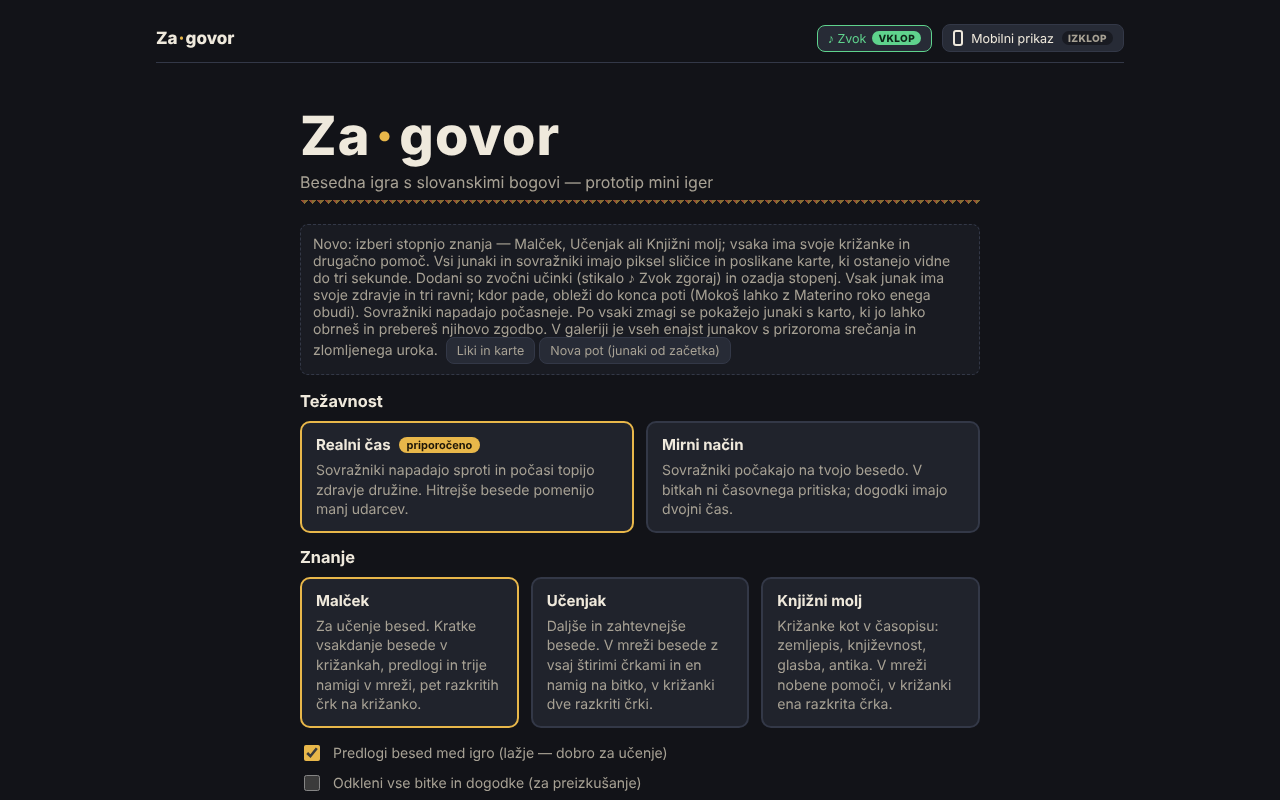
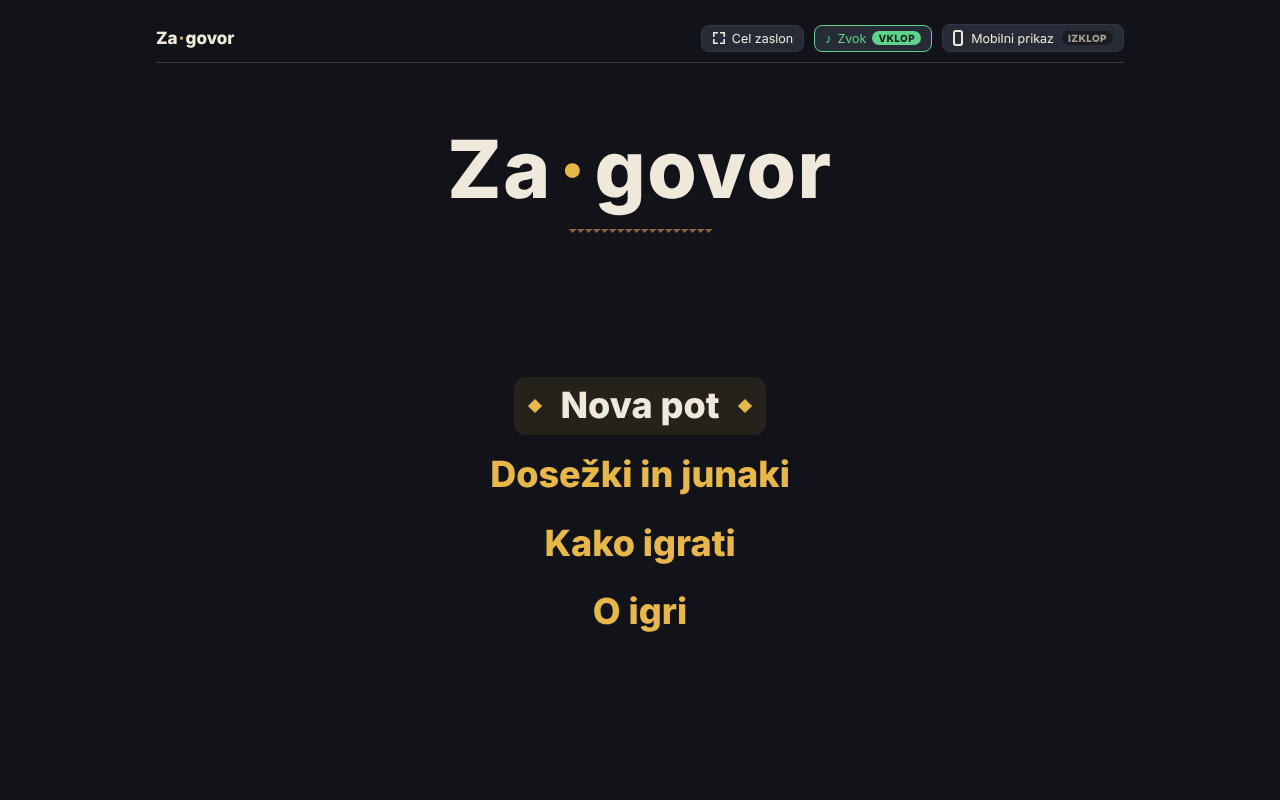
docs: the start menu, Nova pot and O igri
Claude-Session: https://claude.ai/code/session_01DWpJZzj8dHatLjC8dhRuja

diff --git a/README.md b/README.md
@@ -6,8 +6,8 @@ your heroes attack, solve crosswords to speak a *zagovor* (a folk charm), and fi
 creatures of Slovene folklore on the way to the dragon. The game is
 inspired by [Words for Evil](https://store.steampowered.com/app/335790/Words_for_Evil/)
 (Chromosphere Games / Dylan Loney, 2014) and exists to show how rich and playful the
-Slovene language is. The game says so itself: on the start screen, after the final battle,
-and on its *Zasluge* (credits) screen.
+Slovene language is. The game says so itself: on its *O igri* page (*Navdih* and *Zasluge*)
+and after the final battle.
 
 > **Slovensko:** *Za govor* je besedna igra s prvinami igre vlog v slovenščini. Junaki iz
 > slovanske mitologije se bojujejo z besedami: iz mreže črk sestavljaš besede, rešuješ
@@ -55,6 +55,14 @@ The interface is in Slovene. On a phone or tablet the *Mobilni prikaz* layout sw
 by itself; the switch in the top bar changes it at any time.
 
 ## How it plays
+**The start screen is a short menu:** *Nadaljuj pot* (while a journey is under way, with the
+region it stopped in), *Nova pot*, *Dosežki in junaki*, *Kako igrati* and *O igri*. Every
+page under it has **← Nazaj na glavni meni** at the top; `Esc` and the Android back button
+do the same. *Nova pot* is where the difficulty is chosen (see
+[Two difficulty choices](#two-difficulty-choices)), then the first hero. *Kako igrati* lists
+the controls of the current device (keyboard and mouse, or touch) and shows every puzzle in a
+carousel; *O igri* holds the description, the credits and *Prijavi manjkajočo besedo*.
+
 The game is **one side-scrolling journey** through places in Slovenia. You choose one hero
 and walk; the road stops you at enemies, chests, rock slides, wells, pedlars and other
 heroes. There is no level list — the road leads from region to region, and the dragon at
@@ -94,8 +102,8 @@ Ljubljana castle is the last battle.
   it with a solved example and the clock waits until you press *Začni*. `Esc` pauses any
   timed screen; while paused the letters are blurred. *Cel zaslon* in the top bar goes
   fullscreen, and on desktop the game scales so the scene and the puzzle fit the window.
-- **Test mode** (a switch on the start screen) starts with 200 gold and lets you skip stops
-  and regions.
+- **Test mode** (a developer switch on *Nova pot*) starts with 200 gold, offers every hero
+  and lets you skip stops and regions.
 
 ### Battles: the letter mesh
 - A 5×6 grid of Slovene letters (Scrabble letter distribution, balanced vowels). Chain
@@ -140,9 +148,10 @@ journey).
 | **Veles** (god) | Hardest hits, poison | Kačji pik → Medvedja šapa → Korenine sveta |
 
 Each hero has their own health bar and levels up to level 3 (more health, stronger
-attacks, extra power for long words). The gallery (*Liki, predmeti in ozadja* on the start
-screen) shows every hero with sprites, cards and backstory, the road objects, all items and
-the ten backgrounds.
+attacks, extra power for long words). *Dosežki in junaki* lists every hero: the ones you
+have met open their card and backstory, the others are silhouettes. A developer link there
+opens the full gallery with sprites, cards, road objects, all items and the ten backgrounds.
+Achievements have their place on the same page but none exist yet.
 
 ### Enemies
 Enemies attack in real time, telegraphed by a glowing wind-up. Their strongest moves
@@ -202,11 +211,15 @@ everyone).
 - **Bag:** `T` on the road, `3` in a battle. It only shows what you carry; the heroes use it themselves.
 
 ### Two difficulty choices
+Both are chosen on *Nova pot*, before the first hero, and hold for the whole journey: the
+choices only count once the journey starts, so looking at *Nova pot* in the middle of a
+journey changes nothing. The last choices are remembered for the next journey.
+
 **Pace** (*Težavnost*): **real-time** (recommended) has no countdown — enemies attack at
 their own pace and wear the party down; **calm mode** (*mirni način*) only lets enemies act
-after you play words.
+after you play words (they strike every few moves).
 
-**Knowledge** (*Znanje*), chosen below the pace and remembered between visits:
+**Knowledge** (*Znanje*), chosen below the pace, each with its own pixel figure:
 
 | | Malček (baby) | Učenjak (scholar) | Knjižni molj (book worm) |
 | --- | --- | --- | --- |
@@ -253,7 +266,7 @@ so players will meet real Slovene words it does not know. The game helps catch t
   mesh, the chest, the rock slide and darts. The first rejection of a visit says where to
   report it.
 - **Prijavi besedo** in the pause window (`Esc` / *Premor*) and **Prijavi manjkajočo
-  besedo** on the start screen list those words; one tap reports a word, with an optional
+  besedo** on *O igri* list those words; one tap reports a word, with an optional
   note (meaning, dialect). A word can also be typed. Words the game already knows are not sent.
 - **Reports go to a Google Form**, whose answers land in a spreadsheet, with an e-mail per
   answer. They carry only the word, where it was turned down, the note, and the level,
@@ -280,6 +293,7 @@ Confirmed words go into `data/allow.json` (lemma → forms); then rebuild the wo
 ## Controls
 | Action | Keyboard | Mouse / touch |
 | --- | --- | --- |
+| Start menu | `↑` `↓` and `Enter`; `Esc` goes back from any page under it | Tap; *← Nazaj na glavni meni* at the top of every page |
 | Make a word | Type it; the path is found for you. Č, Š, Ž must be typed as themselves (a Slovene keyboard layout), c/s/z never stand in for them | Drag across tiles, or tap them one by one |
 | Send the word | `Enter` | Lift the finger after a drag, or tap the last letter again (*Pošlji* on desktop, and in chest, rock slide and darts) |
 | Clear the word | `Delete` | *Počisti* |
@@ -290,7 +304,7 @@ Confirmed words go into `data/allow.json` (lemma → forms); then rebuild the wo
 | Walk on the road, confirm a stop | `→` or `Enter` (`Esc` = walk past, `T` = bag) | *Naprej* and the buttons of the stop |
 | Crossword: reveal a letter | `?` | *Razkrij črko* |
 | Crossword: next entry, move | `Enter` or `Tab`, arrow keys | Tap a cell or a clue; type on the in-game keyboard, *Naprej* for the next word |
-| Android back button | — | Pauses a puzzle, closes a panel, steps back to the start screen; leaves the app only from there |
+| Android back button | — | Pauses a puzzle, closes a panel, steps back (hero choice → *Nova pot* → menu); leaves the app only from the menu |
 
 ## Build from source
 `dist/index.html` is built from the files in `src/` and `data/` by a small Python script
@@ -334,18 +348,19 @@ The tests open the built page in headless Chrome and play it through a test hook
 ```sh
 npm install
 python3 build.py
-npm test                                  # all nine test files
+npm test                                  # all ten test files
 CHROME_PATH=/path/to/chrome npm test      # if Chrome isn't found automatically
 ```
 
 | File | What it checks |
 | --- | --- |
 | `tests/crossword-generator.test.js` | 4,200 generated crosswords on all three levels: no letter clashes or stray letters, connected grids, everything fits 9×9, only that level's clue banks, short words in enemy crosswords, the gold column spells the keyword |
-| `tests/levels.test.js` | Each knowledge level: chosen and saved on the title screen, hints and proposals, word count and coaching tips, shortest word, crossword bank, letter counts, revealed letters (and half power), mouse clicks reaching the crossword |
+| `tests/levels.test.js` | Each knowledge level: chosen on *Nova pot* and saved when the journey starts, hints and proposals, word count and coaching tips, shortest word, crossword bank, letter counts, revealed letters (and half power), mouse clicks reaching the crossword |
 | `tests/keyword.test.js` | Guessing the keyword early ends the crossword and fires the zagovor; in Povodni mož's whirlpool *urska* with a plain s stays black and *urška* breaks it |
 | `tests/phone.test.js` | On a 390×844 touch screen: the mesh sends without *Pošlji* (second tap, lifted drag, non-words clear), the in-game keyboard types crosswords and the rock slide with the system keyboard closed, wrong entries stay black and correct ones fire, chest partial rewards, darts fit 360 px, *Premor*, and the Android back button |
-| `tests/credits.test.js` | Words for Evil is credited on the start screen, the *Zasluge* screen (with every source and a Steam link) and the ending; the line fits a 360 px phone; Esc and the Android back button leave the credits |
-| `tests/report.test.js` | *Prijavi besedo*: rejected words are remembered (mesh, chest), the pause screen and start screen list them, one tap posts word, place, note and level to the Google Form (intercepted), typing works while paused, known words are not sent, the queue waits without a form and goes out once there is one, lists survive a reload, the panel fits a 360 px phone; *jasa* and base forms are accepted |
+| `tests/menu.test.js` | The start menu: items with and without a journey, `↑` `↓` `Enter` `Esc`, *← Nazaj na glavni meni* on every page; *Nova pot* copy, figures, *Predlogi besed* under Malček only, explanations on by default, test mode as a developer option, choices that only count once the journey starts; *Kako igrati* controls per device and the puzzle carousel (buttons, keys, tabs, swipe); heroes and their cards; no *Nadaljuj pot* after the ending; phone fit and the Android back button |
+| `tests/credits.test.js` | Words for Evil is credited on *O igri* (*Navdih*, then *Zasluge* with every source and a Steam link) and on the ending, whose link opens *O igri* at *Navdih*; the line fits a 360 px phone; Esc and the Android back button leave the credits |
+| `tests/report.test.js` | *Prijavi besedo*: rejected words are remembered (mesh, chest), the pause screen and *O igri* list them, one tap posts word, place, note and level to the Google Form (intercepted), typing works while paused, known words are not sent, the queue waits without a form and goes out once there is one, lists survive a reload, the panel fits a 360 px phone; *jasa* and base forms are accepted |
 | `tests/journey.test.js` | The road: choosing the first hero, walking to a stop, one enemy for one hero, no healing after a battle, a hero joining, the chest's gold and item, the well, the pedlar, using a potion, the bag pausing the battle, the shrine and the one-god rule, swapping with a full party, all 45 hero moves, the dragon and the ending |
 | `tests/lexicon.test.js` | The word list in the browser: over a million forms accepted and a common part suggested, the 217-word coverage set accepted and its non-words (Croatian, English, made up) refused, the reported words (*jasa*, *loj*, *runa*, *seks*) and *ritem*/*ritual*/*riti*, vulgar words accepted but never suggested, mythology names, *deny.json*, non-standard forms, base forms (*ljudje* → *človek*), headwords Sloleks lacks (*zborišča*, *sedemkotnik*), and at 4× slower CPU a mesh walk under 50 ms and a lookup under 20 µs |
 | `tests/desktop.test.js` | A keyboard playthrough: c/s/z are not accepted for č/š/ž, first battle, result and hero screens, chest, finisher, Lintvern's letter lock and forced crossword, ambush, rock slide, and no console errors anywhere |
@@ -364,8 +379,9 @@ za-govor/
 │   ├── journey.js            # the road: regions, stops, party, items, pedlar, bag, darts
 │   ├── playtest.js           # pause, puzzle intros, fullscreen, fit to screen
 │   ├── mobile.js             # phone specifics: in-game keyboard, haptics, Android back button
-│   ├── credits.js            # Zasluge: the Words for Evil credit and every source
+│   ├── credits.js            # Navdih and Zasluge: the Words for Evil credit and every source
 │   ├── report.js             # Prijavi besedo: rejected words, reports to a Google Form
+│   ├── menu.js               # the start menu and its pages: Nova pot, Dosežki in junaki, Kako igrati, O igri
 │   ├── art-extra.js          # generated pixel art (tools/art_extra.py)
 │   └── game.css              # styles, desktop and phone layouts
 ├── android/                  # Capacitor 8 Android project (npm run android:open)
@@ -387,7 +403,7 @@ za-govor/
 │   ├── xref_sources.py       # cross-reference: what each dictionary has that the game does not accept
 │   ├── check_reports.py      # checks the words players reported (CSV from the form's Sheet)
 │   ├── cluebank.py           # the three clue banks; validates and builds data/clues.json
-│   ├── art_extra.py          # draws the new heroes, road objects, item icons and backgrounds (needs Pillow)
+│   ├── art_extra.py          # draws the new heroes, road objects, item icons, backgrounds and knowledge-level figures (needs Pillow)
 │   └── readme-shots.js       # regenerates docs/images/
 ├── tests/                    # headless Chrome tests (puppeteer-core)
 └── docs/

diff --git a/docs/concept-summary.md b/docs/concept-summary.md
@@ -5,7 +5,7 @@ Playable UX prototype (browser; all party heroes and enemies have sprites, cards
 
 ## The journey (11 Nov 2026, afternoon — details in the progression design doc)
 - **The game is one 2D side-scrolling journey through Slovenia**, with no level list: Ptuj → Peca → Triglav → Bled → Trnovski gozd → Piranske soline → Predjamski grad → Ljubljansko barje → Ljubljanica → Ljubljanski grad. **Lintvern, the dragon at Ljubljana castle, is the final battle.**
-- **Start with one hero.** The start screen shows all fifteen characters; on a fresh game only Martin Krpan, Zeleni Jurij and Kurent are known, the rest are silhouettes until met on the road (meeting unlocks them for later journeys). At most four in the party, only one god per journey; gods are stronger.
+- **Start with one hero.** The hero choice (after *Nova pot*) shows all fifteen characters; on a fresh game only Martin Krpan, Zeleni Jurij and Kurent are known, the rest are silhouettes until met on the road (meeting unlocks them for later journeys). At most four in the party, only one god per journey; gods are stronger.
 - **New heroes:** Erazem Predjamski (Erasmus of Lueg), Peter Klepec, Lepa Vida, Ajdovska deklica.
 - **Healing is mainly at wells** (full heal, the fallen stand up). Heroes' healing skills stop at 70 % of health; a hero under 30 % drinks Živa voda automatically and the flask is used up. A fallen hero stays down until a well, a skill or Mrtva voda raises them, and can be left behind when a new hero is met.
 - **Healers attack too** (Mokoš, Zeleni Jurij): weak at level 1, growing with each level.
@@ -17,10 +17,17 @@ Playable UX prototype (browser; all party heroes and enemies have sprites, cards
 - **Superseded:** the fixed prototype path with a level list, the cap of three heroes, the three fixed starters, full recovery after every won battle, and cursed gods as bosses (parked).
 - **Engine:** the web prototype is where things are tried quickly; Godot 4.7 remains the end goal. Journey data sits in `data/world.json` so both can read it.
 
+## Start menu (12 Nov 2026)
+- **The start screen is a menu, not a settings page:** *Nadaljuj pot* (only while a journey is under way, with its region), *Nova pot*, *Dosežki in junaki*, *Kako igrati*, *O igri*. No description or help text on it.
+- **One way back:** every page under the menu has "← Nazaj na glavni meni" at the top; `Esc` and the Android back button do the same.
+- **Difficulty only at the start:** *Nova pot* holds *Težavnost* (pace) and *Znanje* (knowledge, each with a pixel figure: a child with a slate, a scholar, a bookworm), then the hero. The choices count only once the journey starts. *Predlogi besed* appears under Malček only; *Pokaži razlage ugank* is on by default (on = every puzzle type is explained again on the new journey); *Preizkusni način* stays as a developer option.
+- **Kako igrati:** the controls of the current device (keyboard and mouse, or touch), then the puzzle explanations in a carousel. **O igri:** the description that used to be on the start screen, *Navdih*, *Prijavi manjkajočo besedo* and *Zasluge*. **Dosežki in junaki:** met heroes open their card; no achievements exist yet.
+- **Still temporary:** the top bar (*Cel zaslon*, *Zvok*, *Mobilni prikaz*) is for testing; in a release, sound and fullscreen move to a settings or pause screen and the view follows the device.
+
 ## Reference game
 - The inspiration is **Words for Evil** (Chromosphere Games / Dylan Loney, 2014, Unity, English only): Boggle-style letter grid; the coloured tiles in a word decide which hero attacks (1/2/3 tiles = simple/super/ultra); enemies attack in real time.
 - Plan: an original game with its own name, art, heroes and text, not a translation.
-- **Credited in the game (12 Nov 2026):** a line under the title on the start screen, a thank-you with the same line after the final battle, and a *Zasluge* screen naming Words for Evil, Chromosphere Games, Dylan Loney and 2014 with a Steam link, a note that Za govor is not officially connected to its authors, and every other source. Wording is "po navdihu" (inspired by), not "na podlagi" (based on), because no code, art, text or sound is reused.
+- **Credited in the game (12 Nov 2026; moved off the start screen the same day):** the *O igri* page (*Navdih*, then *Zasluge*), and a thank-you with a credit line after the final battle that links there. *Navdih* names Words for Evil, Chromosphere Games, Dylan Loney and 2014 with a Steam link and a note that Za govor is not officially connected to its authors; *Zasluge* lists every other source. Wording is "po navdihu" (inspired by), not "na podlagi" (based on), because no code, art, text or sound is reused.
 
 ## Confirmed decisions
 - **Title: Za govor.** Read as one word, *zagovor* is a folk charm; as two words it means "for speech", a nod to promoting the Slovene language. Write it "Za govor" (Slovene titles capitalise only the first word). Logo treatment is still open.
@@ -38,7 +45,7 @@ Playable UX prototype (browser; all party heroes and enemies have sprites, cards
 - **Send button (iteration 3):** a visible *Pošlji* button next to the word in the mesh, chest and rock slide; green when the word is valid; Enter still works.
 - **Crossword typing (iteration 3):** tapping the grid opens the phone's native keyboard (swipe, autocorrect and diacritics work); the custom on-screen keyboard was removed. On phones the clues stack under the grid.
 - **Knowledge levels (11 Nov):** a second difficulty choice below the pace. *Malček* (baby, the original game): 3-letter words, word proposals, 3 hints per battle, everyday crosswords (359 clues), letter counts and 5 revealed letters per crossword. *Učenjak* (scholar): 4-letter minimum, 1 hint, no proposals, longer and harder crossword words (219 clues, up to 9 letters), 2 revealed letters. *Knjižni molj* (book worm): 4-letter minimum, no tips at all in the mesh (no hints, proposals, word count or coaching), crosswords in the style of paper crosswords (257 original clues: capitals, rivers, Slovene places and writers, art, music, antiquity, science) plus the Učenjak words, no letter counts, 1 revealed letter. A word finished with a revealed letter fires at half power. The choice is remembered between visits.
-- **Word proposals:** once a word is started, up to 8 words continuing the path are proposed (strongest first, tap to select). Toggle on the start screen; meant for learners.
+- **Word proposals:** once a word is started, up to 8 words continuing the path are proposed (strongest first, tap to select). Toggle under Malček on *Nova pot*; meant for learners.
 - **Enemy HP (iteration 2, much lower):** Škrat 22, Mora 35, Volkodlak 45, Vodna vila 30, Povodni mož 110, Lintvern 180; HP numbers shown under bars.
 - **Pace:** two difficulty options. Real-time (recommended) has no on-screen countdown: enemies attack at their own pace, telegraphed by wind-up glow/animation, and wear HP down. Calm mode (mirni način) holds enemies until a word is played.
 - **Art:** rich pixel art on the battlefield (640×360 base, integer scaling, sprites ~48–64 px, bosses 96–160 px). When anyone attacks, a painted folk-art card (panjske končnice style) rises above the attacker in the scene layer, never as a pop-up and never over the grid. Card size scales with tier; input is never blocked.
@@ -46,7 +53,7 @@ Playable UX prototype (browser; all party heroes and enemies have sprites, cards
 - **Steam:** parked for now.
 
 ## Art pass 1 (10 Nov 2026, in the prototype)
-- **Characters drawn:** Perun, Svarog, Veles. Screen "Liki in karte" (button on the start screen) shows each sprite, both frames, an attack preview against a straw dummy and the card paintings.
+- **Characters drawn:** Perun, Svarog, Veles. Screen "Liki in karte" (developer link on *Dosežki in junaki*) shows each sprite, both frames, an attack preview against a straw dummy and the card paintings.
 - **Sprites:** 48×48 px, two frames (idle, attack), facing right, dark outline, ~12 colours each. Shown at integer scale only (1× phone battle, 2× desktop battle, 2–3× gallery).
   - Perun: silver hair, golden beard and moustache, gold circlet, blue embroidered tunic, red cloak, axe; attack frame swings the axe overhead with a lightning bolt.
   - Svarog: bald with red top-knot, iron headband, ember beard, bare arms, leather apron with a sun sign, hammer; attack frame slams the hammer down with sparks.
